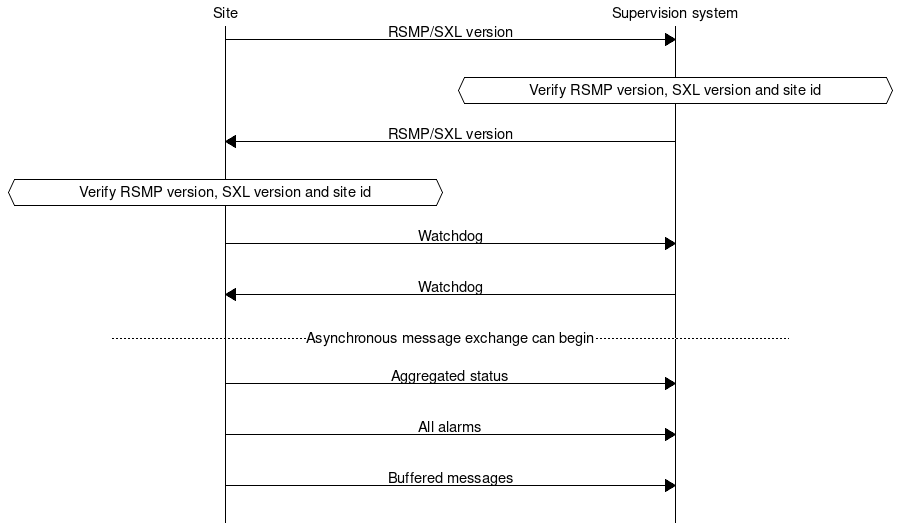
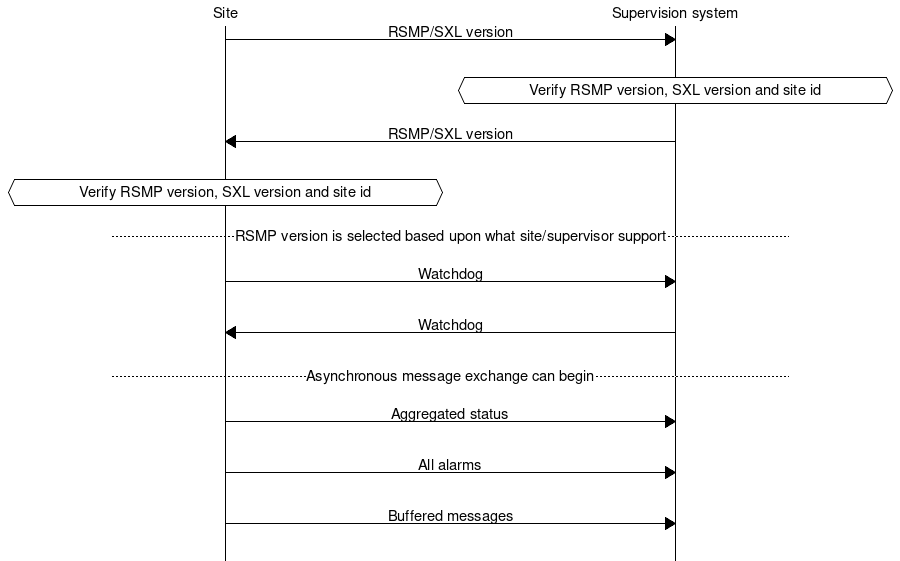
Update documentation

diff --git a/docs/core/3.2-draft/searchindex.js b/docs/core/3.2-draft/searchindex.js
@@ -1,1 +1,1 @@
-Search.setIndex({docnames:["applicability","applicability/basic_structure","applicability/object_model","applicability/scope","applicability/sxl","applicability/transport_of_data","changelog","definitions","index","introduction","purpose"],envversion:{"sphinx.domains.c":1,"sphinx.domains.changeset":1,"sphinx.domains.cpp":1,"sphinx.domains.javascript":1,"sphinx.domains.math":2,"sphinx.domains.python":1,"sphinx.domains.rst":1,"sphinx.domains.std":1,sphinx:55},filenames:["applicability.rst","applicability/basic_structure.rst","applicability/object_model.rst","applicability/scope.rst","applicability/sxl.rst","applicability/transport_of_data.rst","changelog.rst","definitions.rst","index.rst","introduction.rst","purpose.rst"],objects:{},objnames:{},objtypes:{},terms:{"018d5796e86a":1,"01t11":1,"02t14":5,"05070016f64a":1,"08t08":1,"08t09":1,"08t11":1,"08t12":1,"0a95e463":1,"0cfa956512e0":1,"0fd63726":1,"0x09":5,"0x0a":5,"0x0c":5,"0x0d":5,"166z":1,"192a":1,"266z":1,"280c52b6e6d8":1,"293z":1,"29t08":1,"29t13":1,"2a744145":1,"2b8142923c55":1,"2ea7edfc":1,"3313526e":1,"345z":5,"390z":1,"3a9d":1,"3d2a0097":1,"403a":1,"40a0":1,"416cg100":1,"41ac":1,"423f":1,"424e":1,"42ff":1,"431a":1,"434a":1,"44a4":1,"44f5":5,"45f8093762c5":1,"47a661e116db":1,"481wa001":1,"48451735cb0b":1,"49c6c824":1,"4abc":1,"4bc4":1,"4c09":1,"4c16":1,"4c19":1,"4db9":1,"4dd7":1,"4de5":1,"554dff0":1,"571z":1,"584z":1,"5c80a72c7092":1,"5ff528c5":1,"654z":1,"691z":1,"6bbcb26e":1,"6c9233":5,"6f968141":1,"70b55e312584":1,"735z":1,"740z":1,"78fe":1,"800c":1,"85e7":1,"860sg001":1,"860va001":1,"86bd":1,"881wa001":5,"8b57":1,"8bb4f972c076":1,"8c50":1,"8ca4":1,"8ddf":1,"8e3a":1,"956b":1,"97a9":1,"9c7b":1,"9cc5":1,"9e3d":1,"abstract":7,"boolean":1,"byte":5,"case":[1,3,4],"class":2,"default":[1,5],"float":1,"function":[0,1,3,7,8],"import":4,"long":[1,10],"new":[1,4,10],"null":1,"public":7,"short":1,"true":1,"try":5,"while":[4,5],CTS:7,For:[1,4,5,10],ITS:7,NTS:[1,4,7],Not:4,One:[1,5],TLS:5,The:[1,2,3,4,5,7,9,10],There:[1,4],Use:5,Used:[1,4,7],Yes:[4,5],a0001:1,a0004:1,a001:5,a021bc01:1,a082:5,a204c:5,a335:1,aTs:[1,5],abil:1,abl:[4,5,10],about:[1,4,10],accord:[1,4,5],acid:[1,5],ack:[1,5],acknowledeg:1,acknowledg:[0,5,8],act:5,action:[1,10],activ:[1,5],actual:[1,4],adapt:4,add:[1,10],added:4,addit:[1,10],address:5,adf832f22420:1,adf832f22425:1,adjust:5,administr:[3,7,10],adopt:2,affect:1,after:[1,5],again:[1,5],age:1,aggreg:[0,4,5,7,8,10],aggregatedstatu:1,aggregatedstatusrequest:1,agre:5,aim:9,alarm:[0,4,5,7,8,10],alarmcodeid:[1,4],all:[1,4,5,7,10],allow:[1,3,5],alorithm:7,alreadi:1,also:[1,4,10],alter:10,alwai:[1,5],among:7,analogu:1,analysi:10,ani:[1,3,5],answer:5,anyth:5,appli:[1,4,5],applic:[4,5,8,10],approach:1,area:[4,10],arg:1,argument:1,arrai:1,arrang:5,ascii:5,asn:2,asp:[1,5],associ:[1,4],ast:1,asynchron:5,attach:4,author:7,automat:4,autonom:4,ayyyi:1,b335:1,b4dd:1,b4e0:5,b6579d6d:1,b6bd7c96:1,b744:1,b777:1,b90a:1,ba80:1,base64:[1,4],base:[5,10],basecyclecount:1,basi:5,basic:[0,4,8],bb8a:1,bbcdd:7,bd58:1,be12ab9a:1,be19:1,becaus:[1,5],becom:[1,2],been:[1,2,10],befor:1,begin:5,being:[1,4],belong:1,below:[1,4],benefit:4,best:[0,8],between:[0,2,7,8,9,10],binari:[1,4,5],bitmap:4,block:4,both:[1,4,5,7],broken:10,buffer:[1,5],bus:5,c336:1,c7c47f57e100:1,cTS:1,camera:7,can:[1,2,3,4,5,7,10],card:10,cast:1,cat:[1,5],categor:4,categori:1,caus:1,cci:1,ceas:5,certif:5,cf76365e:1,chain:10,chang:[1,7,8,10],changelog:6,charact:[1,5],choic:1,cid:[1,5],circumst:7,clarifi:[4,6],classif:7,client:5,clock:[1,4,5],close:5,co_:1,code:[1,4,5,7],collabor:7,color:[1,5],column:[1,4],combin:1,come:5,command:[0,5,7,8,10],commandcodeid:[1,4],commandrequest:1,commandrespons:1,comment:1,common:4,commun:[0,1,2,4,7,8,9,10],communc:1,compar:4,compens:4,complet:5,compon:[1,5,7],componentid:1,concept:[5,7],concurr:5,configur:[1,4,5],confirm:1,conform:4,connect:[1,5],consecut:5,consequ:[3,5],consist:[2,7],consortium:7,construct:[1,10],consumpt:1,contain:[1,5,10],conten:4,content:[1,5,8],continu:[1,5],contract:10,contractor:10,control:[1,4,5,7,10],cooper:[1,5],correct:[1,4,10],correl:[1,4],correspond:4,could:[4,5],coupl:1,cover:[7,10],creat:[8,10],current:[1,5],cyclecount:1,d107cdfc3fcf:1,d109f4cfe487:1,d2c2da636584:1,d2e9a9a1:5,d593:1,d6d97f8b:1,dabb67f9:1,dac702545b8f:1,dash:1,data:[0,1,8],date:[1,6],datetim:1,datex2:[2,7],datex:[2,7],db844c4702a0:1,deactiv:1,deal:5,decim:1,decod:5,defin:[1,2,4,5,7,10],definit:[0,1,8],depend:[4,5,7,10],describ:[1,2,3,10],descript:[1,4],deserialis:1,design:4,desir:[1,4],destin:[1,5],detail:[1,4,10],detect:[1,5],determin:[1,4,7],develop:7,devic:5,differ:[1,5],digit:1,direct:[1,9],directli:[1,4,5],disabl:[1,4],disadvantag:4,disconnect:1,discrep:1,disrupt:[0,1,8],distinguish:5,document:[1,3,4,9],doe:[1,5],doesn:4,dot:1,doubl:1,driven:[1,5],driver:1,due:4,durat:1,dure:[1,5],dynam:[4,10],e68a0010:1,e6fb:1,e9db:1,each:[1,4,5,10],easi:5,easili:10,eeeffggg:7,effect:1,either:[1,4,5,10],element:[1,4],els:5,embed:5,emerg:4,empti:1,enabl:1,encrypt:5,end:[1,5],engin:[4,10],ensur:[1,5],enter:4,equip:[4,5,7,9,10],error:[1,5,10],especi:4,establish:[0,1,4,8],etc:[1,10],european:7,event:[1,5],eventu:2,everi:[1,4,5],exact:5,exactli:4,exampl:[1,4,5,10],except:[1,5],exchang:[0,5,7,8,10],exist:[1,4,5,7],expand:10,expect:5,explan:4,explicitli:1,express:1,extendedinputstatu:1,extens:7,extern:7,externalalarmcodeid:1,externalntsalarmcodeid:1,externalntsid:[1,4,7],extra:4,f04feda16986:1,f094946a863:1,f150:1,f1a13213:1,f2f0:1,f38e283a778:1,f48900bc:1,f6843ac0:1,f91c:1,facil:10,fail:5,failur:5,fals:1,fan:1,fetch:1,field:[4,5,7],fifo:5,fig:1,figur:[1,5],fire:1,first:[1,5],fit:4,fix:1,flexibl:4,flow:[5,7],focus:10,follow:[1,4,5],forc:1,format:[1,2,4,5,7],forme:5,formfe:5,four:10,free:1,from:[1,4,5,7,10],front:4,full:1,functionalposit:[1,4],functionalst:1,gener:[1,3,9],get:[1,4],give:[1,5,10],given:[1,4],glanc:10,global:1,goal:10,good:5,group:[1,7],guid:[1,4],guidelin:[8,10],handl:[1,5],has:[1,2,4,10],have:[4,7,10],heavili:1,help:4,hex:5,high:[1,4],histor:5,host:5,hour:1,how:[2,4,7],howev:[2,5],ident:[1,4,5],identifi:[1,4,5,7,8],ids:1,immedi:1,implement:[1,2,3,4,5],implicit:[1,5],impuls:1,inact:[1,5],inactiv:1,incl:5,includ:[1,2,5,10],incom:5,incorrectli:5,independ:2,indic:[1,10],individu:[1,4],inform:[1,3,4,10],initi:[1,5,6],inputstatu:1,instal:10,instanc:[1,4,10],instead:1,insuffici:1,integ:1,intent:1,interact:[1,5],interfac:[3,4,5,7,10],intern:[1,2,5],internet:7,intersect:1,interv:[1,5,10],introduct:8,iso:1,issu:[1,5],ital:4,item:10,its:[1,2],javascript:7,json:[1,2,5,7],know:5,known:[1,4],lack:[1,5],lamp:[1,5],languag:7,later:[2,5],latest:1,leach:1,lead:3,leader:5,least:[1,5],led:[4,10],level:[1,4,7,10],light:5,limit:4,line:1,list:[0,1,5,7,8,10],local:[1,7,10],log:[8,10],logic:[1,4],loos:1,lost:[1,5],low:4,lower:4,m0001:1,made:[5,7,10],mai:[4,5,7],maintain:7,mainten:[1,4,7],make:[4,5],manag:[4,5,7,10],mangement:[0,8],mani:[1,3,4,7,10],manouv:4,manual:1,manufactur:1,mark:1,markup:7,match:5,maximo:[7,10],mean:[1,4,5,10],mechan:3,messag:[0,5,7,8,10],messageack:[1,5],messagenotack:[1,5],meta:2,mid:[1,5],might:5,minimum:5,minor:6,minut:1,mismatch:5,miss:4,mix:1,model:[0,1,8],modif:4,monitor:[5,10],more:[1,4,7],mostli:4,motorist:1,mtype:[1,5],multipl:[0,1,8],must:[1,4,5],myyyi:1,name:[1,4,6,10],nation:7,natur:1,necessari:10,necessarili:7,need:[1,3,4,5,10],net:5,never:1,next:1,nordic:[3,7],notack:5,notacknowledg:[1,5],notat:7,note:[1,4,7],notion:4,notsuspend:[1,5],ntsobjectid:1,ntsoid:[1,5],number:[1,4],numer:1,object:[0,5,7,8,10],objecttyp:1,occur:[1,5,10],och:1,offer:9,old:[1,5],older:5,omid:1,omit:1,onc:[1,5],one:[4,5,7],ones:5,onli:[1,3,4,5],oper:10,oppos:10,option:[1,4,5],order:[1,4,5,10],organ:7,origin:1,other:[2,5,7,10],otherwis:[1,5],out:10,outag:5,outgo:5,outsid:3,overal:4,overview:10,own:[4,5],packet:[0,1,8],panel:10,paramet:4,pars:1,parser:5,part:[1,4,5],parti:[1,3],partial:1,particular:[1,5],partli:4,perform:[1,4,5],physic:7,pictur:4,place:1,plan:1,pleas:[1,4,7],point:[1,4],port:5,posit:[1,4,7],possibl:[1,2,4,5,7],power:[1,5],practic:[0,5,8],precis:1,predefin:[1,4],prerequisit:[1,4],present:[1,4,7,9],previous:5,pri:[1,5],primari:1,principl:[1,4,5,10],prioriti:[1,5],proce:5,process:[1,4],produc:10,properti:7,protocol:[2,3,4,6,7,9,10],provid:[1,2,3,4,10],purchas:[1,5],pure:5,purpos:[1,4,5,8],push:5,qualiti:1,rate:1,rea:1,reach:[1,5],read:[5,10],real:1,reason:[1,2,5],receiv:[1,5],recent:1,recommend:4,reconnect:[1,5],red:[1,5],reduc:[4,5],refer:[1,4],reflect:[1,4],regard:1,regardless:[1,5,9,10],region:[7,10],reject:5,relat:[1,7,10],relationship:[0,8],relev:[1,4],reliabl:5,remain:[1,5],remov:10,renam:4,renew:5,replac:[5,7],repres:[1,7,10],request:[0,4,5,8,10],requir:[0,1,5,8],reset:5,respect:4,respond:[1,4,5],respons:[0,4,5,8],rest:4,restart:[1,5],restor:5,resum:1,reus:10,revis:[1,6],rfc:1,risk:[4,5],road:[7,9,10],room:1,row:4,rsmp:[0,3,5,7],rsmsg:[1,5],rule:2,rvs:[1,5],s0001:1,s0003:1,s0096:1,sTs:1,salz:1,same:[1,4,5,7,9,10],samt:4,save:5,sci:1,scope:[0,8],search:5,second:[1,5],secondari:[1,5],section:[1,4,5],secur:[0,8],securitycod:1,see:[1,5,7],send:[1,4,5,7],sendonchang:1,sensit:1,sent:[1,4,5,10],separ:5,sequenc:[1,4,5],seri:4,serial:5,seriou:1,serv:5,server:5,set:[1,2,4,5,10],setvalu:1,sever:5,share:4,shift:1,shortli:1,should:[1,4,5,10],show:1,sid:1,side:[7,9,10],sign:[1,7],signal:[0,1,5,7,8,10],signalgroupstatu:1,simpl:[1,5],simplifi:[1,4],simultan:5,sinc:[1,4,5],singl:1,site:[0,2,4,7,8,10],siteid:[1,4,5],size:5,skill:10,soc:1,socket:5,some:[4,5],someth:1,soon:[1,10],sourc:[5,7],special:[4,5],specif:[1,3,4,7,10],specifi:7,speed:1,ssl:5,sta:[1,7],stage:1,standard:[1,2,7,9,10],start:[1,4],state:5,statist:10,statu:[0,5,7,8,10],status:[1,5,7],statuscodeid:[1,4],statusrequest:1,statusrespons:1,statussubscrib:1,statusunsubscrib:1,statusupd:1,stop:[1,4],store:5,string:1,structur:[0,8],subscrib:[1,5],subscript:[4,5,10],subsystem:1,success:1,suffici:10,suffix:[1,4],suggest:4,suitabl:4,supervis:[0,2,4,7,8,9,10],supervisor:[0,8],supplier:[3,9,10],support:[1,4,5,7],sure:4,suspend:5,suspens:1,swedish:[3,7,10],sxl:[0,5,7,8,10],synchron:[1,4],system:[0,2,4,7,8,9,10],syyyi:1,tab:5,tabl:[1,4],tag:[1,5],tcp:[5,7],tdok:[1,4,7],technic:[1,4,10],technolog:[2,10],temp:1,temperatur:1,term:[7,10],termin:[1,5],text:[1,4,5],than:[1,5],thei:[5,10],them:5,therefor:5,thi:[1,2,3,4,5,9,10],thing:7,third:3,those:[3,4,5],three:5,time:[1,10],timeout:1,timestamp:[1,5],timetamp:1,titl:[1,4],track:1,traffic:[1,4,5,7,10],transfer:[3,7],transit:1,transmit:4,transport:[0,3,7,8,10],treat:1,trick:5,tricki:5,troubleshoot:4,tunnel:1,two:1,type:[1,5,7,9,10],unblock:1,undefin:1,under:4,understood:1,unicod:1,uniq:1,uniqu:[1,4],unknown:1,unless:[1,5],unsubscrib:1,unsuccess:1,unsuspend:[1,5],until:1,updat:[1,4,5],updater:1,upon:[5,10],urt:1,use:[1,3,5,7],used:[1,4,5,7,10],user:[1,5],uses:[1,2,4,5],using:[1,2,4,5,7,10],usual:[1,10],utc:[1,4],utf:1,uuid:1,valu:5,variabl:1,variou:2,vehicl:1,vendor:10,ver:1,veri:5,verifi:[1,5],version:[0,5,6,8],via:[5,10],visibl:10,w3c:[1,7],wTs:1,wai:[1,2,5,9,10],wait:[1,5],watchdddog:1,watchdog:[0,5,6,8],web:[7,10],well:[5,10],were:5,when:[1,4,5,10],where:[1,4],which:[1,4,5,7,10],who:3,why:[1,2],wide:7,wind:1,within:[1,3],without:[1,5,10],won:5,work:[1,4,9,10],world:7,wrap:[0,8],written:4,wrong:5,www:7,xacid:[1,5],xml:[1,2,5,7],xnacid:[1,5],xnid:[1,5],yellowflash:1,yes:5,yyyi:1},titles:["4. Applicability","4.4. Basic structure","4.2. Object model","4.1. Scope","4.5. Signal Exchange List","4.3. Transport of data","5. Change log","1. Definitions","RSMP Specification","2. Introduction","3. Purpose"],titleterms:{"function":4,"return":[1,4],acknowledg:1,aggreg:1,alarm:1,answer:1,applic:0,argument:4,basic:1,best:4,between:[1,4,5],bit:1,chang:[4,6],command:[1,4],commun:5,compon:4,current:4,data:[4,5],date:4,definit:[4,7],differ:4,disrupt:5,equip:1,establish:5,exchang:[1,4],first:4,group:4,identifi:10,introduct:9,list:4,log:6,mangement:4,messag:[1,4],model:2,multipl:5,object:[1,2,4],one:1,oper:4,other:[1,4],overview:4,packet:5,page:4,practic:4,purpos:10,read:4,relationship:4,request:1,requir:[4,10],respons:[1,3],returnvalu:1,revis:4,rsmp:[1,4,8],scope:3,secur:5,sever:1,sheet:4,signal:4,singl:4,site:[1,5],specif:8,state:[1,4],statu:[1,4],structur:[1,4],subscript:1,supervis:[1,5],supervisor:5,suspend:1,sxl:[1,4],system:[1,5],time:4,transport:5,type:4,unsubscript:1,valu:[1,4],version:[1,4],watchdog:1,wrap:5,write:4}})
+Search.setIndex({docnames:["applicability","applicability/basic_structure","applicability/object_model","applicability/scope","applicability/sxl","applicability/transport_of_data","changelog","definitions","index","introduction","purpose"],envversion:{"sphinx.domains.c":1,"sphinx.domains.changeset":1,"sphinx.domains.cpp":1,"sphinx.domains.javascript":1,"sphinx.domains.math":2,"sphinx.domains.python":1,"sphinx.domains.rst":1,"sphinx.domains.std":1,sphinx:55},filenames:["applicability.rst","applicability/basic_structure.rst","applicability/object_model.rst","applicability/scope.rst","applicability/sxl.rst","applicability/transport_of_data.rst","changelog.rst","definitions.rst","index.rst","introduction.rst","purpose.rst"],objects:{},objnames:{},objtypes:{},terms:{"018d5796e86a":1,"01t11":1,"02t14":5,"05070016f64a":1,"08t08":1,"08t09":1,"08t11":1,"08t12":1,"0a95e463":1,"0cfa956512e0":1,"0fd63726":1,"0x09":5,"0x0a":5,"0x0c":5,"0x0d":5,"166z":1,"192a":1,"266z":1,"280c52b6e6d8":1,"293z":1,"29t08":1,"29t13":1,"2a744145":1,"2b8142923c55":1,"2ea7edfc":1,"3313526e":1,"345z":5,"390z":1,"3a9d":1,"3d2a0097":1,"403a":1,"40a0":1,"416cg100":1,"41ac":1,"423f":1,"424e":1,"42ff":1,"431a":1,"434a":1,"44a4":1,"44f5":5,"45f8093762c5":1,"47a661e116db":1,"481wa001":1,"48451735cb0b":1,"49c6c824":1,"4abc":1,"4bc4":1,"4c09":1,"4c16":1,"4c19":1,"4db9":1,"4dd7":1,"4de5":1,"554dff0":1,"571z":1,"584z":1,"5c80a72c7092":1,"5ff528c5":1,"654z":1,"691z":1,"6bbcb26e":1,"6c9233":5,"6f968141":1,"70b55e312584":1,"735z":1,"740z":1,"78fe":1,"800c":1,"85e7":1,"860sg001":1,"860va001":1,"86bd":1,"881wa001":5,"8b57":1,"8bb4f972c076":1,"8c50":1,"8ca4":1,"8ddf":1,"8e3a":1,"956b":1,"97a9":1,"9c7b":1,"9cc5":1,"9e3d":1,"abstract":7,"boolean":1,"byte":5,"case":[1,3,4],"class":2,"default":[1,5],"float":1,"function":[0,1,3,7,8],"import":4,"long":[1,10],"new":[1,4,10],"null":1,"public":7,"short":1,"true":1,"try":5,"while":[4,5],CTS:7,For:[1,4,5,10],ITS:7,NTS:[1,4,7],Not:4,One:[1,5],TLS:5,The:[1,2,3,4,5,7,9,10],There:[1,4],Use:5,Used:[1,4,7],Yes:[4,5],a0001:1,a0004:1,a001:5,a021bc01:1,a082:5,a204c:5,a335:1,aTs:[1,5],abil:1,abl:[4,5,10],about:[1,4,10],accord:[1,4,5],acid:[1,5],ack:[1,5],acknowledeg:1,acknowledg:[0,5,8],act:5,action:[1,10],activ:[1,5],actual:[1,4],adapt:4,add:[1,10],added:4,addit:[1,10],address:5,adf832f22420:1,adf832f22425:1,adjust:5,administr:[3,7,10],adopt:2,affect:1,after:[1,5],again:[1,5],age:1,aggreg:[0,4,5,7,8,10],aggregatedstatu:1,aggregatedstatusrequest:1,agre:5,aim:9,alarm:[0,4,5,7,8,10],alarmcodeid:[1,4],all:[1,4,5,7,10],allow:[1,3,5],alorithm:7,alreadi:1,also:[1,4,10],alter:10,alwai:[1,5],among:7,analogu:1,analysi:10,ani:[1,3,5],answer:5,anyth:5,appli:[1,4,5],applic:[4,5,8,10],approach:1,area:[4,10],arg:1,argument:1,arrai:1,arrang:5,ascii:5,asn:2,asp:[1,5],associ:[1,4],ast:1,asynchron:5,attach:4,author:7,automat:4,autonom:4,ayyyi:1,b335:1,b4dd:1,b4e0:5,b6579d6d:1,b6bd7c96:1,b744:1,b777:1,b90a:1,ba80:1,base64:[1,4],base:[5,10],basecyclecount:1,basi:5,basic:[0,4,8],bb8a:1,bbcdd:7,bd58:1,be12ab9a:1,be19:1,becaus:[1,5],becom:[1,2],been:[1,2,10],befor:1,begin:5,being:[1,4],belong:1,below:[1,4],benefit:4,best:[0,8],between:[0,2,7,8,9,10],binari:[1,4,5],bitmap:4,block:4,both:[1,4,5,7],broken:10,buffer:[1,5],bus:5,c336:1,c7c47f57e100:1,cTS:1,camera:7,can:[1,2,3,4,5,7,10],card:10,cast:1,cat:[1,5],categor:4,categori:1,caus:[1,5],cci:1,ceas:5,certif:5,cf76365e:1,chain:10,chang:[1,7,8,10],changelog:6,charact:[1,5],choic:1,cid:[1,5],circumst:7,clarifi:[4,6],classif:7,client:5,clock:[1,4,5],close:5,co_:1,code:[1,4,5,7],collabor:7,color:[1,5],column:[1,4],combin:1,come:5,command:[0,5,7,8,10],commandcodeid:[1,4],commandrequest:1,commandrespons:1,comment:1,common:4,commun:[0,1,2,4,7,8,9,10],communc:1,compar:4,compens:4,complet:5,compon:[1,5,7],componentid:1,concept:[5,7],concurr:5,configur:[1,4,5],confirm:1,conform:4,connect:[1,5],consecut:5,consequ:[3,5],consist:[2,7],consortium:7,construct:[1,10],consumpt:1,contain:[1,5,10],conten:4,content:[1,5,8],continu:[1,5],contract:10,contractor:10,control:[1,4,5,7,10],cooper:[1,5],correct:[1,4,10],correl:[1,4],correspond:4,could:[4,5],coupl:1,cover:[7,10],creat:[8,10],current:[1,5],cyclecount:1,d107cdfc3fcf:1,d109f4cfe487:1,d2c2da636584:1,d2e9a9a1:5,d593:1,d6d97f8b:1,dabb67f9:1,dac702545b8f:1,dash:1,data:[0,1,8],date:[1,6],datetim:1,datex2:[2,7],datex:[2,7],db844c4702a0:1,deactiv:1,deal:5,decim:1,decod:5,defin:[1,2,4,5,7,10],definit:[0,1,8],depend:[4,5,7,10],describ:[1,2,3,10],descript:[1,4],deserialis:1,design:4,desir:[1,4],destin:[1,5],detail:[1,4,10],detect:[1,5],determin:[1,4,7],develop:7,devic:5,differ:[1,5],digit:1,direct:[1,9],directli:[1,4,5],disabl:[1,4],disadvantag:4,disconnect:1,disrupt:[0,1,8],distinguish:5,document:[1,3,4,9],doe:[1,5],doesn:4,dot:1,doubl:1,driven:[1,5],driver:1,due:4,durat:1,dure:[1,5],dynam:[4,10],e68a0010:1,e6fb:1,e9db:1,each:[1,4,5,10],easi:5,easili:10,eeeffggg:7,effect:1,either:[1,4,5,10],element:[1,4],els:5,embed:5,emerg:4,empti:1,enabl:1,encrypt:5,end:[1,5],engin:[4,10],ensur:[1,5],enter:4,equip:[4,5,7,9,10],error:[1,5,10],especi:4,establish:[0,1,4,8],etc:[1,10],european:7,event:[1,5],eventu:2,everi:[1,4,5],exact:5,exactli:4,exampl:[1,4,5,10],except:[1,5],exchang:[0,5,7,8,10],exist:[1,4,5,7],expand:10,expect:5,explan:4,explicitli:1,express:1,extendedinputstatu:1,extens:7,extern:7,externalalarmcodeid:1,externalntsalarmcodeid:1,externalntsid:[1,4,7],extra:4,f04feda16986:1,f094946a863:1,f150:1,f1a13213:1,f2f0:1,f38e283a778:1,f48900bc:1,f6843ac0:1,f91c:1,facil:10,fail:5,failur:5,fals:1,fan:1,fetch:1,field:[4,5,7],fifo:5,fig:1,figur:[1,5],fire:1,first:5,fit:4,fix:1,flexibl:4,flow:[5,7],focus:10,follow:[1,4,5],forc:1,format:[1,2,4,5,7],forme:5,formfe:5,four:10,free:1,from:[1,4,5,7,10],front:4,full:1,functionalposit:[1,4],functionalst:1,further:5,gener:[1,3,9],get:[1,4],give:[1,5,10],given:[1,4],glanc:10,global:1,goal:10,good:5,group:[1,7],guid:[1,4],guidelin:[8,10],handl:[1,5],has:[1,2,4,10],have:[4,7,10],heavili:1,help:4,hex:5,high:[1,4],histor:5,host:5,hour:1,how:[2,4,7],howev:[2,5],ident:[1,4,5],identifi:[1,4,5,7,8],ids:1,immedi:1,implement:[1,2,3,4,5],implicit:[1,5],implicitli:5,impuls:1,inact:[1,5],inactiv:1,incl:5,includ:[2,5,10],incom:5,incorrectli:5,independ:2,indic:[1,10],individu:[1,4],inform:[1,3,4,10],initi:[1,5,6],inputstatu:1,instal:10,instanc:[1,4,5,10],instead:1,insuffici:1,integ:1,intent:1,interact:[1,5],interfac:[3,4,5,7,10],intern:[2,5],internet:7,intersect:1,interv:[1,5,10],introduct:8,iso:1,issu:[1,5],ital:4,item:10,its:[1,2],javascript:7,json:[1,2,5,7],know:5,known:[1,4],lack:[1,5],lamp:[1,5],languag:7,later:[2,5],latest:[1,5],leach:1,lead:3,leader:5,least:[1,5],led:[4,10],level:[1,4,7,10],light:5,limit:4,line:1,list:[0,1,5,7,8,10],local:[1,7,10],log:[8,10],logic:[1,4],loos:1,lost:[1,5],low:4,lower:4,m0001:1,made:[5,7,10],mai:[4,5,7],maintain:7,mainten:[1,4,7],make:[4,5],manag:[4,5,7,10],mangement:[0,8],mani:[1,3,4,7,10],manouv:4,manual:1,manufactur:1,mark:1,markup:7,match:[1,5],maximo:[7,10],mean:[1,4,5,10],mechan:3,messag:[0,5,7,8,10],messageack:[1,5],messagenotack:[1,5],meta:2,mid:[1,5],might:5,minimum:5,minor:6,minut:1,mismatch:[1,5],miss:4,mix:1,model:[0,1,8],modif:4,monitor:[5,10],more:[1,4,7],mostli:4,motorist:1,mtype:[1,5],multipl:[0,1,8],must:[1,4,5],myyyi:1,name:[1,4,6,10],nation:7,natur:1,necessari:10,necessarili:7,need:[1,3,4,5,10],net:5,never:1,next:1,nordic:[3,7],notack:5,notacknowledg:[1,5],notat:7,note:[1,4,7],notion:4,notsuspend:[1,5],ntsobjectid:1,ntsoid:[1,5],number:[1,4],numer:1,object:[0,5,7,8,10],objecttyp:1,occur:[1,5,10],och:1,offer:9,old:[1,5],older:5,omid:1,omit:1,onc:[1,5],one:[4,5,7],ones:5,onli:[1,3,4,5],oper:10,oppos:10,option:[1,4,5],order:[1,4,5,10],organ:7,origin:1,other:[2,5,7,10],otherwis:[1,5],out:10,outag:5,outgo:5,outsid:3,overal:4,overview:10,own:[4,5],packet:[0,1,8],panel:10,paramet:4,pars:1,parser:5,part:[1,4,5],parti:[1,3,5],partial:1,particular:[1,5],partli:4,perform:[1,4,5],physic:7,pictur:4,place:1,plan:1,pleas:[1,4,7],point:[1,4],port:5,posit:[1,4,7],possibl:[1,2,4,5,7],power:[1,5],practic:[0,5,8],precis:1,predefin:[1,4],prerequisit:[1,4],present:[1,4,7,9],previous:5,pri:[1,5],primari:1,principl:[1,4,5,10],prioriti:[1,5],proce:5,process:[1,4],produc:10,properti:7,protocol:[2,3,4,6,7,9,10],provid:[1,2,3,4,10],purchas:[1,5],pure:5,purpos:[1,4,5,8],push:5,qualiti:1,rate:1,rea:[1,5],reach:[1,5],read:[5,10],real:1,reason:[1,2,5],receiv:[1,5],recent:1,recommend:4,reconnect:[1,5],red:[1,5],reduc:[4,5],refer:[1,4],reflect:[1,4],regardless:[1,5,9,10],region:[7,10],reject:[0,1,8],relat:[1,7,10],relationship:[0,8],relev:[1,4],reliabl:5,remain:[1,5],remov:10,renam:4,renew:5,replac:[5,7],repres:[1,7,10],request:[0,4,5,8,10],requir:[0,1,5,8],reset:5,respect:4,respond:[1,4],respons:[0,4,5,8],rest:4,restart:[1,5],restor:5,resum:1,reus:10,revis:[1,6],rfc:1,risk:[4,5],road:[7,9,10],room:1,row:4,rsmp:[0,3,5,7],rsmsg:[1,5],rule:2,rvs:[1,5],s0001:1,s0003:1,s0096:1,sTs:1,salz:1,same:[1,4,5,7,9,10],samt:4,save:5,sci:1,scope:[0,8],search:5,second:[1,5],secondari:[1,5],section:[1,4,5],secur:[0,8],securitycod:1,see:[1,5,7],select:5,send:[1,4,5,7],sendonchang:1,sensit:1,sent:[1,4,5,10],separ:5,sequenc:[1,4,5],seri:4,serial:5,seriou:1,serv:5,server:5,set:[1,2,4,5,10],setvalu:1,sever:5,share:4,shift:1,shortli:1,should:[1,4,5,10],show:1,sid:1,side:[7,9,10],sign:[1,7],signal:[0,1,5,7,8,10],signalgroupstatu:1,simpl:[1,5],simplifi:[1,4],simultan:5,sinc:[1,4,5],singl:1,site:[0,2,4,7,8,10],siteid:[1,4,5],size:5,skill:10,soc:1,socket:5,some:[4,5],someth:1,soon:[1,10],sourc:[5,7],special:[4,5],specif:[1,3,4,7,10],specifi:7,speed:1,ssl:5,sta:[1,7],stage:1,standard:[1,2,7,9,10],start:[1,4],state:5,statist:10,statu:[0,5,7,8,10],status:[1,5,7],statuscodeid:[1,4],statusrequest:1,statusrespons:1,statussubscrib:1,statusunsubscrib:1,statusupd:1,stop:[1,4],store:5,string:1,structur:[0,8],subscrib:[1,5],subscript:[4,5,10],subsystem:1,success:1,suffici:10,suffix:[1,4],suggest:4,suitabl:4,supervis:[0,2,4,7,8,9,10],supervisor:[0,8],supplier:[3,9,10],support:[1,4,5,7],sure:4,suspend:5,suspens:1,swedish:[3,7,10],sxl:[0,5,7,8,10],synchron:[1,4],system:[0,2,4,7,8,9,10],syyyi:1,tab:5,tabl:[1,4],tag:[1,5],tcp:[5,7],tdok:[1,4,7],technic:[1,4,10],technolog:[2,10],temp:1,temperatur:1,term:[7,10],termin:5,text:[1,4,5],than:[1,5],thei:[5,10],them:5,therefor:5,thi:[1,2,3,4,5,9,10],thing:7,third:3,those:[3,4,5],three:5,time:[1,10],timeout:1,timestamp:[1,5],timetamp:1,titl:[1,4],track:1,traffic:[1,4,5,7,10],transfer:[3,7],transit:1,transmit:4,transport:[0,3,7,8,10],treat:1,trick:5,tricki:5,troubleshoot:4,tunnel:1,two:1,type:[1,5,7,9,10],unblock:1,undefin:1,under:4,understood:1,unicod:1,uniq:1,uniqu:[1,4],unknown:1,unless:[1,5],unsubscrib:1,unsuccess:1,unsupport:5,unsuspend:[1,5],updat:[1,4,5],updater:1,upon:[5,10],urt:1,use:[1,3,5,7],used:[1,4,5,7,10],user:[1,5],uses:[1,2,4,5],using:[1,2,4,5,7,10],usual:[1,10],utc:[1,4],utf:1,uuid:1,valu:5,variabl:1,variou:2,vehicl:1,vendor:10,ver:1,veri:5,verifi:[1,5],version:[0,5,6,8],via:[5,10],visibl:10,w3c:[1,7],wTs:1,wai:[1,2,5,9,10],wait:5,watchdddog:1,watchdog:[0,5,6,8],web:[7,10],well:[5,10],were:5,when:[1,4,5,10],where:[1,4],which:[1,4,5,7,10],who:3,why:[1,2],wide:7,wind:1,within:[1,3],without:[1,5,10],won:5,work:[1,4,9,10],world:7,wrap:[0,8],written:4,wrong:5,www:7,xacid:[1,5],xml:[1,2,5,7],xnacid:[1,5],xnid:[1,5],yellowflash:1,yes:5,yyyi:1},titles:["4. Applicability","4.4. Basic structure","4.2. Object model","4.1. Scope","4.5. Signal Exchange List","4.3. Transport of data","5. Change log","1. Definitions","RSMP Specification","2. Introduction","3. Purpose"],titleterms:{"function":4,"return":[1,4],acknowledg:1,aggreg:1,alarm:1,answer:1,applic:0,argument:4,basic:1,best:4,between:[1,4,5],bit:1,chang:[4,6],command:[1,4],commun:5,compon:4,current:4,data:[4,5],date:4,definit:[4,7],differ:4,disrupt:5,equip:1,establish:5,exchang:[1,4],first:4,group:4,identifi:10,introduct:9,list:4,log:6,mangement:4,messag:[1,4],model:2,multipl:5,object:[1,2,4],one:1,oper:4,other:[1,4],overview:4,packet:5,page:4,practic:4,purpos:10,read:4,reject:5,relationship:4,request:1,requir:[4,10],respons:[1,3],returnvalu:1,revis:4,rsmp:[1,4,8],scope:3,secur:5,sever:1,sheet:4,signal:4,singl:4,site:[1,5],specif:8,state:[1,4],statu:[1,4],structur:[1,4],subscript:1,supervis:[1,5],supervisor:5,suspend:1,sxl:[1,4],system:[1,5],time:4,transport:5,type:4,unsubscript:1,valu:[1,4],version:[1,4],watchdog:1,wrap:5,write:4}})

diff --git a/docs/core/3.2-draft/applicability/transport_of_data.html b/docs/core/3.2-draft/applicability/transport_of_data.html
@@ -98,10 +98,11 @@
 <li class="toctree-l3"><a class="reference internal" href="#security">4.3.2. Security</a></li>
 <li class="toctree-l3"><a class="reference internal" href="#communication-establishment-between-sites-and-supervision-system">4.3.3. Communication establishment between sites and supervision system</a></li>
 <li class="toctree-l3"><a class="reference internal" href="#communication-establishment-between-sites">4.3.4. Communication establishment between sites</a></li>
-<li class="toctree-l3"><a class="reference internal" href="#communication-disruption">4.3.5. Communication disruption</a></li>
-<li class="toctree-l3"><a class="reference internal" href="#wrapping-of-packets">4.3.6. Wrapping of packets</a></li>
-<li class="toctree-l3"><a class="reference internal" href="#transport-between-site-and-supervision-system">4.3.7. Transport between site and supervision system</a></li>
-<li class="toctree-l3"><a class="reference internal" href="#transport-between-sites">4.3.8. Transport between sites</a></li>
+<li class="toctree-l3"><a class="reference internal" href="#communication-rejection">4.3.5. Communication rejection</a></li>
+<li class="toctree-l3"><a class="reference internal" href="#communication-disruption">4.3.6. Communication disruption</a></li>
+<li class="toctree-l3"><a class="reference internal" href="#wrapping-of-packets">4.3.7. Wrapping of packets</a></li>
+<li class="toctree-l3"><a class="reference internal" href="#transport-between-site-and-supervision-system">4.3.8. Transport between site and supervision system</a></li>
+<li class="toctree-l3"><a class="reference internal" href="#transport-between-sites">4.3.9. Transport between sites</a></li>
 </ul>
 </li>
 <li class="toctree-l2"><a class="reference internal" href="basic_structure.html">4.4. Basic structure</a></li>
@@ -271,15 +272,16 @@ implicit in the following figure.</p>
 <ol class="arabic simple">
 <li>Site sends RSMP / SXL version (according to section <a class="reference internal" href="basic_structure.html#rsmpsxl-version"><span class="std std-ref">RSMP/SXL Version</span></a>).</li>
 <li>The supervision system verifies the RSMP version, SXL version and site id.
-If there is a mismatch the sequence does not proceed. The system responds
-with a MessageNotAck and closes the connection
-(see section <a class="reference internal" href="basic_structure.html#message-acknowledgement"><span class="std std-ref">Message acknowledgement</span></a>)</li>
+If there is a mismatch the sequence does not proceed.
+(see section <a class="reference internal" href="#communication-rejection"><span class="std std-ref">Communication rejection</span></a>)</li>
 <li>The supervision system sends RSMP / SXL version (according to section
 <a class="reference internal" href="basic_structure.html#rsmpsxl-version"><span class="std std-ref">RSMP/SXL Version</span></a>).</li>
 <li>The site verifies the RSMP version, SXL version and site id.
-If there is a mismatch the sequence does not proceed. The site responds
-with a MessageNotAck and closes the connection.
-(see section <a class="reference internal" href="basic_structure.html#message-acknowledgement"><span class="std std-ref">Message acknowledgement</span></a>)</li>
+If there is a mismatch the sequence does not proceed.
+(see section <a class="reference internal" href="#communication-rejection"><span class="std std-ref">Communication rejection</span></a>)</li>
+<li>The latest version of RSMP that both communicating parties exchange in the
+RSMP/SXL Version is implicitly selected and used in any further RSMP
+communication.</li>
 <li>The site sends a Watchdog (according to section <a class="reference internal" href="basic_structure.html#watchdog"><span class="std std-ref">Watchdog</span></a>)</li>
 <li>The system sends a Watchdog (according to section <a class="reference internal" href="basic_structure.html#watchdog"><span class="std std-ref">Watchdog</span></a>)</li>
 <li>Asynchronous message exchange can begin. This means that commands and
@@ -326,15 +328,16 @@ implicit in the following figure.</p>
 <li>The follower site sends RSMP / SXL version (according to section
 <a class="reference internal" href="basic_structure.html#rsmpsxl-version"><span class="std std-ref">RSMP/SXL Version</span></a>).</li>
 <li>The leader site verifies the RSMP version, SXL version and site id.
-If there is a mismatch the sequence does not proceed. The leader site
-responds with a MessageNotAck and closes the connection.
-(see section <a class="reference internal" href="basic_structure.html#message-acknowledgement"><span class="std std-ref">Message acknowledgement</span></a>)</li>
+If there is a mismatch the sequence does not proceed.
+(see section <a class="reference internal" href="#communication-rejection"><span class="std std-ref">Communication rejection</span></a>)</li>
 <li>The leader site sends RSMP / SXL version (according to section
 <a class="reference internal" href="basic_structure.html#rsmpsxl-version"><span class="std std-ref">RSMP/SXL Version</span></a>).</li>
 <li>The follower site verifies the RSMP version, SXL version and site id.
-If there is a mismatch the sequence does not proceed. The follower site
-responds with a MessageNotAck and closes the connection.
-(see section <a class="reference internal" href="basic_structure.html#message-acknowledgement"><span class="std std-ref">Message acknowledgement</span></a>)</li>
+If there is a mismatch the sequence does not proceed.
+(see section <a class="reference internal" href="#communication-rejection"><span class="std std-ref">Communication rejection</span></a>)</li>
+<li>The latest version of RSMP that both communicating parties exchange in the
+RSMP/SXL Version is implicitly selected and used in any further RSMP
+communication.</li>
 <li>The follower site sends Watchdog (according to section <a class="reference internal" href="basic_structure.html#watchdog"><span class="std std-ref">Watchdog</span></a>)</li>
 <li>The leader site sends Watchdog (according to section <a class="reference internal" href="basic_structure.html#watchdog"><span class="std std-ref">Watchdog</span></a>)</li>
 <li>Asynchronous message exchange can begin. This means that commands and
@@ -358,8 +361,26 @@ component id</li>
 <li>No communication buffer exist</li>
 </ul>
 </div>
+<div class="section" id="communication-rejection">
+<span id="id5"></span><h2>4.3.5. Communication rejection<a class="headerlink" href="#communication-rejection" title="Permalink to this headline">¶</a></h2>
+<p>During RSMP/SXL Version exchange each communicating party needs to verify:</p>
+<ul class="simple">
+<li>RSMP version(s)</li>
+<li>SXL version</li>
+<li>Site id</li>
+</ul>
+<p>If there is a mismatch of SXL, Site id or unsupported version(s) of RSMP then:</p>
+<ol class="arabic simple">
+<li>The communication establishment sequence does not proceed</li>
+<li>The receiver of the RSMP/SXL version message sends a MessageNotAck with
+reason (<cite>rea</cite>) set to the cause of rejection. For instance,
+<code class="docutils literal notranslate"><span class="pre">RSMP</span> <span class="pre">versions</span> <span class="pre">[3.1.5]</span> <span class="pre">requested,</span> <span class="pre">but</span> <span class="pre">only</span> <span class="pre">[3.1.1,3.1.2,3.1.3,3.1.4]</span> <span class="pre">supported</span></code></li>
+<li>The connection is closed</li>
+</ol>
+<img alt="../_images/communication-rejection.png" class="align-center" src="../_images/communication-rejection.png" />
+</div>
 <div class="section" id="communication-disruption">
-<span id="id5"></span><h2>4.3.5. Communication disruption<a class="headerlink" href="#communication-disruption" title="Permalink to this headline">¶</a></h2>
+<span id="id6"></span><h2>4.3.6. Communication disruption<a class="headerlink" href="#communication-disruption" title="Permalink to this headline">¶</a></h2>
 <p>In the event of an communication disruption the following principles applies:</p>
 <ul class="simple">
 <li>If the equipment supports buffering of status messages, the status
@@ -426,7 +447,7 @@ be 10 seconds.</li>
 </ul>
 </div>
 <div class="section" id="wrapping-of-packets">
-<h2>4.3.6. Wrapping of packets<a class="headerlink" href="#wrapping-of-packets" title="Permalink to this headline">¶</a></h2>
+<h2>4.3.7. Wrapping of packets<a class="headerlink" href="#wrapping-of-packets" title="Permalink to this headline">¶</a></h2>
 <p>Both Json and XML packets can be tricky to decode unless one always know that
 the packet is complete. Json lacks an end tag and an XML end tag may be
 embedded in the text source. In order to reliably detect the end of a packet
@@ -478,13 +499,13 @@ establishment) must not be sent, but must be handled</li>
 </ul>
 </div>
 <div class="section" id="transport-between-site-and-supervision-system">
-<h2>4.3.7. Transport between site and supervision system<a class="headerlink" href="#transport-between-site-and-supervision-system" title="Permalink to this headline">¶</a></h2>
+<h2>4.3.8. Transport between site and supervision system<a class="headerlink" href="#transport-between-site-and-supervision-system" title="Permalink to this headline">¶</a></h2>
 <p>Supervision system acts a socket server and waits for the site to
 connect. If the communication were to fail it is the site’s
 responsibility to reconnect.</p>
 </div>
 <div class="section" id="transport-between-sites">
-<h2>4.3.8. Transport between sites<a class="headerlink" href="#transport-between-sites" title="Permalink to this headline">¶</a></h2>
+<h2>4.3.9. Transport between sites<a class="headerlink" href="#transport-between-sites" title="Permalink to this headline">¶</a></h2>
 <p>One site acts as leader and the other one as a follower.</p>
 <ul class="simple">
 <li>The leader site initiates the connection to the following site.</li>

diff --git a/docs/core/3.2-draft/applicability.html b/docs/core/3.2-draft/applicability.html
@@ -177,10 +177,11 @@
 <li class="toctree-l2"><a class="reference internal" href="applicability/transport_of_data.html#security">4.3.2. Security</a></li>
 <li class="toctree-l2"><a class="reference internal" href="applicability/transport_of_data.html#communication-establishment-between-sites-and-supervision-system">4.3.3. Communication establishment between sites and supervision system</a></li>
 <li class="toctree-l2"><a class="reference internal" href="applicability/transport_of_data.html#communication-establishment-between-sites">4.3.4. Communication establishment between sites</a></li>
-<li class="toctree-l2"><a class="reference internal" href="applicability/transport_of_data.html#communication-disruption">4.3.5. Communication disruption</a></li>
-<li class="toctree-l2"><a class="reference internal" href="applicability/transport_of_data.html#wrapping-of-packets">4.3.6. Wrapping of packets</a></li>
-<li class="toctree-l2"><a class="reference internal" href="applicability/transport_of_data.html#transport-between-site-and-supervision-system">4.3.7. Transport between site and supervision system</a></li>
-<li class="toctree-l2"><a class="reference internal" href="applicability/transport_of_data.html#transport-between-sites">4.3.8. Transport between sites</a></li>
+<li class="toctree-l2"><a class="reference internal" href="applicability/transport_of_data.html#communication-rejection">4.3.5. Communication rejection</a></li>
+<li class="toctree-l2"><a class="reference internal" href="applicability/transport_of_data.html#communication-disruption">4.3.6. Communication disruption</a></li>
+<li class="toctree-l2"><a class="reference internal" href="applicability/transport_of_data.html#wrapping-of-packets">4.3.7. Wrapping of packets</a></li>
+<li class="toctree-l2"><a class="reference internal" href="applicability/transport_of_data.html#transport-between-site-and-supervision-system">4.3.8. Transport between site and supervision system</a></li>
+<li class="toctree-l2"><a class="reference internal" href="applicability/transport_of_data.html#transport-between-sites">4.3.9. Transport between sites</a></li>
 </ul>
 </li>
 <li class="toctree-l1"><a class="reference internal" href="applicability/basic_structure.html">4.4. Basic structure</a><ul>

diff --git a/docs/core/3.2-draft/index.html b/docs/core/3.2-draft/index.html
@@ -179,10 +179,11 @@
 <li class="toctree-l3"><a class="reference internal" href="applicability/transport_of_data.html#security">4.3.2. Security</a></li>
 <li class="toctree-l3"><a class="reference internal" href="applicability/transport_of_data.html#communication-establishment-between-sites-and-supervision-system">4.3.3. Communication establishment between sites and supervision system</a></li>
 <li class="toctree-l3"><a class="reference internal" href="applicability/transport_of_data.html#communication-establishment-between-sites">4.3.4. Communication establishment between sites</a></li>
-<li class="toctree-l3"><a class="reference internal" href="applicability/transport_of_data.html#communication-disruption">4.3.5. Communication disruption</a></li>
-<li class="toctree-l3"><a class="reference internal" href="applicability/transport_of_data.html#wrapping-of-packets">4.3.6. Wrapping of packets</a></li>
-<li class="toctree-l3"><a class="reference internal" href="applicability/transport_of_data.html#transport-between-site-and-supervision-system">4.3.7. Transport between site and supervision system</a></li>
-<li class="toctree-l3"><a class="reference internal" href="applicability/transport_of_data.html#transport-between-sites">4.3.8. Transport between sites</a></li>
+<li class="toctree-l3"><a class="reference internal" href="applicability/transport_of_data.html#communication-rejection">4.3.5. Communication rejection</a></li>
+<li class="toctree-l3"><a class="reference internal" href="applicability/transport_of_data.html#communication-disruption">4.3.6. Communication disruption</a></li>
+<li class="toctree-l3"><a class="reference internal" href="applicability/transport_of_data.html#wrapping-of-packets">4.3.7. Wrapping of packets</a></li>
+<li class="toctree-l3"><a class="reference internal" href="applicability/transport_of_data.html#transport-between-site-and-supervision-system">4.3.8. Transport between site and supervision system</a></li>
+<li class="toctree-l3"><a class="reference internal" href="applicability/transport_of_data.html#transport-between-sites">4.3.9. Transport between sites</a></li>
 </ul>
 </li>
 <li class="toctree-l2"><a class="reference internal" href="applicability/basic_structure.html">4.4. Basic structure</a><ul>

diff --git a/docs/core/3.2-draft/applicability/basic_structure.html b/docs/core/3.2-draft/applicability/basic_structure.html
@@ -1967,20 +1967,17 @@ below.</p>
 </div>
 <div class="section" id="rsmp-sxl-version">
 <span id="rsmpsxl-version"></span><h2>4.4.7. RSMP/SXL Version<a class="headerlink" href="#rsmp-sxl-version" title="Permalink to this headline">¶</a></h2>
-<p>Version of RSMP and revision of SXL are always sent directly after
-establishing communication. Both communicating systems send this as
-their first message and waits for message response until any other
-messages are sent. Information regarding all supported RSMP versions
-should be included in the version message. The version message should
-be implemented in such a way that is should be possible to add
-additional tags/variables (e.g. date) without affecting existing
-implementations.</p>
-<p>If any discrepancies with the version numbers are detected between the
-two communicating systems this should be set using a MessageNotAck.
-The communication is terminated after that and an internal alarm is
-activated in both communicating system. If both communicating systems
-support several RSMP versions it is always the latest version that
-should be used.</p>
+<p>RSMP/SXL Version is the initial message when establishing communication.</p>
+<p>It contains:
+Site Id
+* SXL revision
+* All supported RSMP versions</p>
+<p>The Site Id and SXL revision must match between the communicating parties.</p>
+<p>If there is a mismatch or if there are no RSMP version that both
+communicating parties support, see <a class="reference internal" href="transport_of_data.html#communication-rejection"><span class="std std-ref">Communication rejection</span></a>.</p>
+<p>The version message should be implemented in such a way that is should be
+possible to add additional tags/variables (e.g. date) without affecting
+existing implementations.</p>
 <p>The principle of the message exchange is defined by the communication
 establishment (See
 <a class="reference internal" href="transport_of_data.html#communication-establishment-between-sites-and-supervision-system"><span class="std std-ref">Communication establishment between sites and supervision system</span></a>
